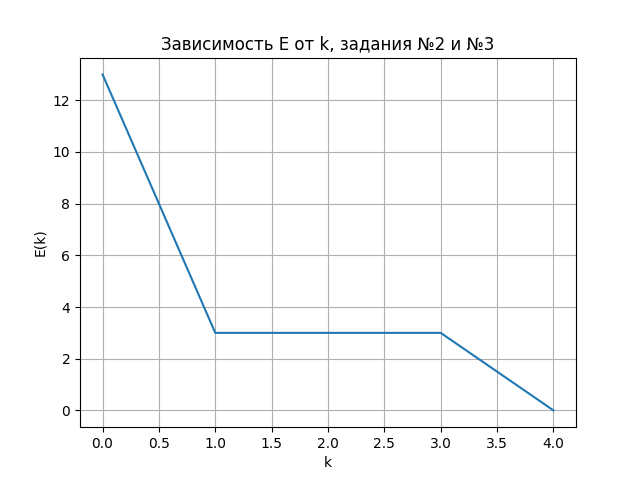
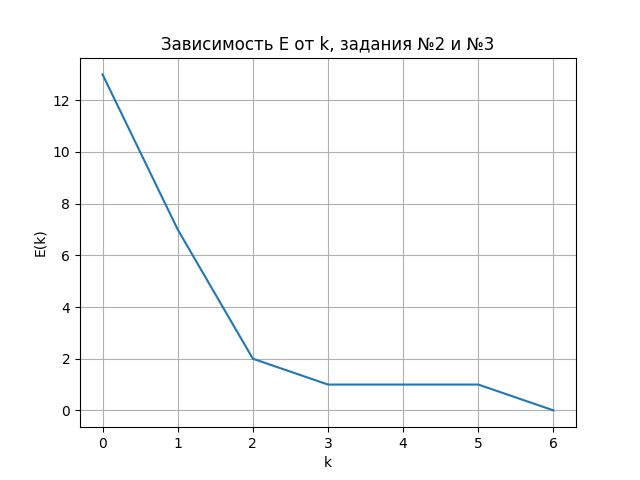
fix sigmoid function

diff --git a/lab1/neuron.py b/lab1/neuron.py
@@ -87,8 +87,9 @@ class NeuronWithUnitStepFunction(Neuron):
         for epoch in range(epochs):
             Y = self.result()
             E = self.hamming_distance(Y)
-            print(f"Epoch {epoch}: Y = {Y}, W = [{self.weights[0]:.3f}, {self.weights[1]:.3f}, "
-                  f"{self.weights[2]:.3f}, {self.weights[3]:.3f}, {self.weights[4]:.3f}] E = {E}")
+            print(f"Epoch {epoch}: Y = {Y}, W = {self.weights} E = {E}")
+            # print(f"Epoch {epoch}: Y = {Y}, W = [{self.weights[0]:.3f}, {self.weights[1]:.3f}, "
+            #       f"{self.weights[2]:.3f}, {self.weights[3]:.3f}, {self.weights[4]:.3f}] E = {E}")
             E_list.append(E)
             if E == 0:
                 self.plot(epoch, E_list, "Зависимоть E от k, задание №1")
@@ -130,14 +131,13 @@ class NeuroneWithSigmoidActivationFunction(Neuron):
         if X is None:
             X = self.X
 
-        epochs = 100
+        epochs = 300
         E_list = []
         for epoch in range(epochs):
             Y = self.result()
             E = self.hamming_distance(Y)
             if logging:
-                print(f"Epoch {epoch}: Y = {Y}, W = [{self.weights[0]:.3f}, {self.weights[1]:.3f},"
-                      f"{self.weights[2]:.3f}, {self.weights[3]:.3f}, {self.weights[4]:.3f}] E = {E}")
+                print(f"Epoch {epoch}: Y = {Y}, W = {self.weights} E = {E}")
             E_list.append(E)
             if E == 0:
                 if logging:
@@ -146,13 +146,13 @@ class NeuroneWithSigmoidActivationFunction(Neuron):
 
             for i in range(len(X)):
                 y = self.feedforward(self.X[i])
+                delta = self.t[i] - y
+                derivative = self.sigmoid_function(self.X[i]) * (1 - self.sigmoid_function(self.X[i]))
                 for j in range(5):
                     if j == 0:
-                        self.weights[j] += self.learning_rate * (self.t[i] - y) * self.sigmoid_function(X[i]) \
-                                           * (1 - self.sigmoid_function(X[i])) * 1
+                        self.weights[j] += self.learning_rate * delta * derivative
                     else:
-                        self.weights[j] += self.learning_rate * (self.t[i] - y) * self.sigmoid_function(X[i]) \
-                                           * (1 - self.sigmoid_function(X[i])) * X[i][j - 1]
+                        self.weights[j] += self.learning_rate * delta * X[i][j - 1] * derivative
         return False
 
     def train_partly(self):
@@ -165,8 +165,8 @@ class NeuroneWithSigmoidActivationFunction(Neuron):
             flag = False
             for item in combinations:
                 self.weights = [0, 0, 0, 0, 0]
-                res = self.train(item, False)
-                if res:
+                successful_learning = self.train(item, False)
+                if successful_learning:
                     flag = True
                     print(f"Набор из {i} векторов: {item}")
                     self.weights = [0, 0, 0, 0, 0]  # Повтор с логированием
@@ -183,7 +183,7 @@ class NeuroneWithSigmoidActivationFunction(Neuron):
         """
         return 1 if self.sigmoid_function(x) >= 0.5 else 0
 
-    def sigmoid_function(self, x):
+    def sigmoid_function(self, x) -> float:
         """
         Вычисление out (сигмоидальной функции)
         :param x: набор на котором необходимо посчитать функцию
